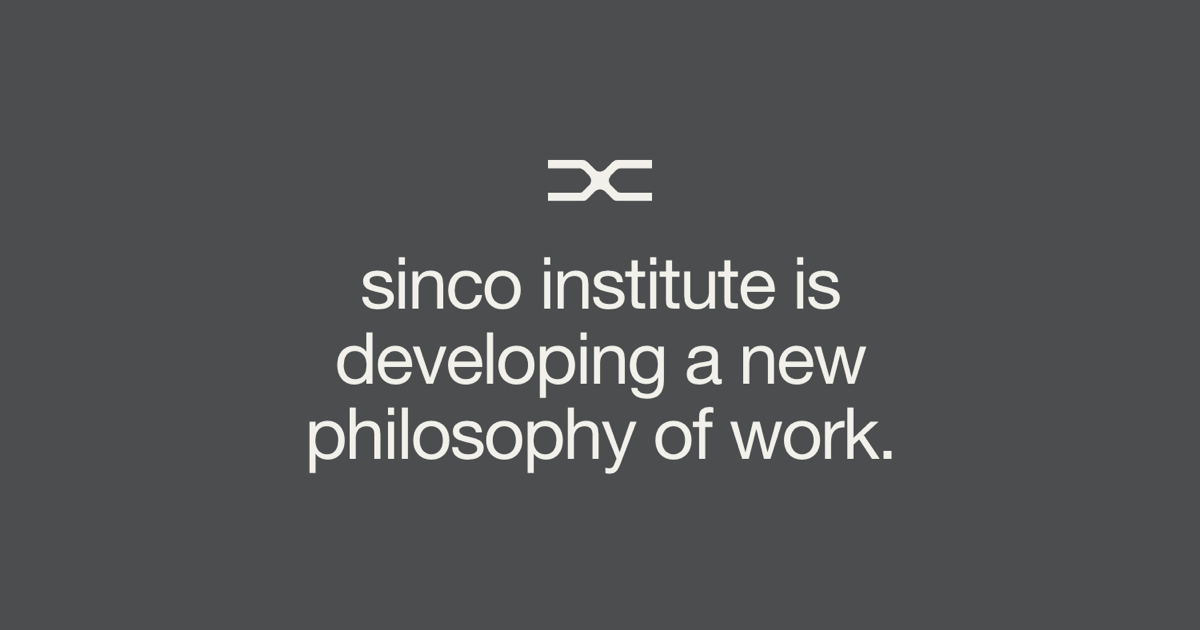
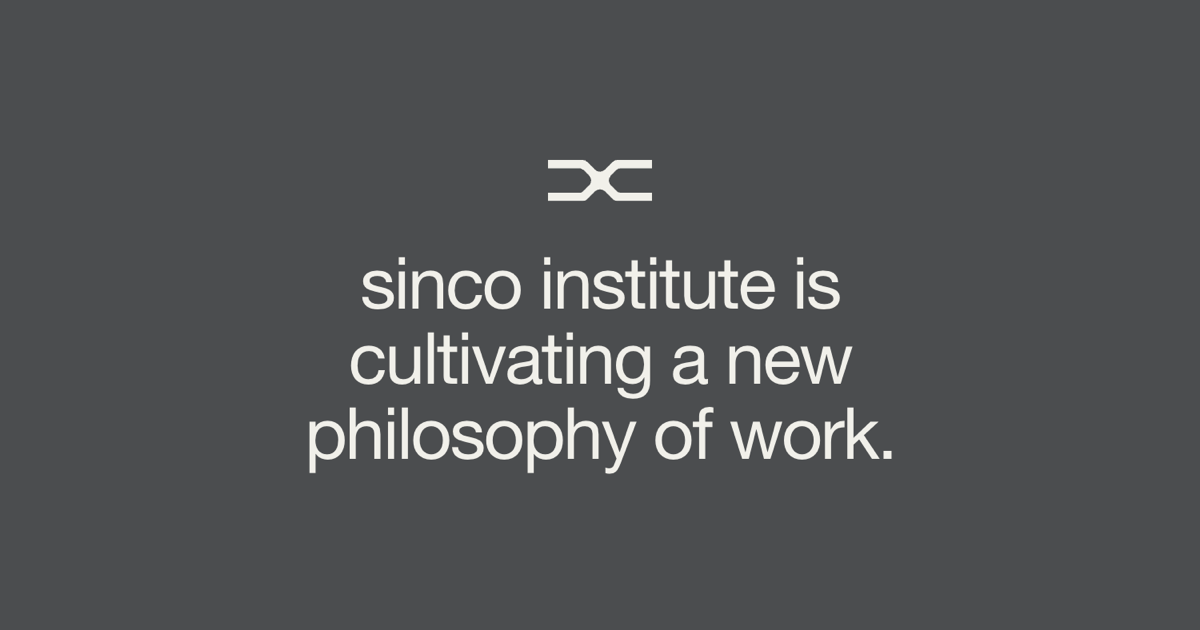
hero: developing → cultivating a new philosophy of work
- Hero sentence, meta/OG/Twitter descriptions, JSON-LD and the share image.

Changed region(s): [[0.2775, 0.5127, 0.74, 0.6333]]

diff --git a/index.html b/index.html
@@ -4,7 +4,7 @@
     <meta charset="UTF-8" />
     <meta name="viewport" content="width=device-width, initial-scale=1.0, viewport-fit=cover" />
     <title>sinco institute ©</title>
-    <meta name="description" content="sinco institute is developing a new philosophy of work: work that adapts to the creativity of whoever does it." />
+    <meta name="description" content="sinco institute is cultivating a new philosophy of work: work that adapts to the creativity of whoever does it." />
     <script>
       // tema antes de pintar, para não piscar: ?tema=… ou o escolhido nesta sessão; o padrão é chumbo
       (() => {
@@ -18,17 +18,17 @@
     <meta property="og:locale" content="en_US" />
     <meta property="og:url" content="https://www.sinco.institute/" />
     <meta property="og:title" content="sinco institute" />
-    <meta property="og:description" content="sinco institute is developing a new philosophy of work: work that adapts to the creativity of whoever does it." />
+    <meta property="og:description" content="sinco institute is cultivating a new philosophy of work: work that adapts to the creativity of whoever does it." />
     <meta property="og:image" content="https://www.sinco.institute/assets/og.png" />
     <meta property="og:image:type" content="image/png" />
     <meta property="og:image:width" content="1200" />
     <meta property="og:image:height" content="630" />
-    <meta property="og:image:alt" content="The sinco logo above the sentence: sinco institute is developing a new philosophy of work." />
+    <meta property="og:image:alt" content="The sinco logo above the sentence: sinco institute is cultivating a new philosophy of work." />
     <meta name="twitter:card" content="summary_large_image" />
     <meta name="twitter:title" content="sinco institute" />
-    <meta name="twitter:description" content="sinco institute is developing a new philosophy of work: work that adapts to the creativity of whoever does it." />
+    <meta name="twitter:description" content="sinco institute is cultivating a new philosophy of work: work that adapts to the creativity of whoever does it." />
     <meta name="twitter:image" content="https://www.sinco.institute/assets/og.png" />
-    <meta name="twitter:image:alt" content="The sinco logo above the sentence: sinco institute is developing a new philosophy of work." />
+    <meta name="twitter:image:alt" content="The sinco logo above the sentence: sinco institute is cultivating a new philosophy of work." />
     <meta name="theme-color" content="#4b4d4f" />
     <link rel="icon" href="assets/favicon.ico" sizes="32x32" />
     <link rel="apple-touch-icon" href="assets/apple-touch-icon.png" />
@@ -39,7 +39,7 @@
         "name": "sinco institute",
         "url": "https://www.sinco.institute/",
         "logo": "https://www.sinco.institute/assets/apple-touch-icon.png",
-        "description": "sinco institute is developing a new philosophy of work: work that adapts to the creativity of whoever does it.",
+        "description": "sinco institute is cultivating a new philosophy of work: work that adapts to the creativity of whoever does it.",
         "sameAs": ["https://www.are.na/sinco-institute"]
       }
     </script>
@@ -92,7 +92,7 @@
           <g class="metade" id="selo-e"><use href="#sinco" clip-path="url(#corte-e)" /></g>
           <g class="metade" id="selo-d"><use href="#sinco" clip-path="url(#corte-d)" /></g>
         </svg>
-        <h1 class="frase">sinco institute is developing a new philosophy of work.</h1>
+        <h1 class="frase">sinco institute is cultivating a new philosophy of work.</h1>
       </div>
 
       <div class="heroi-base">
